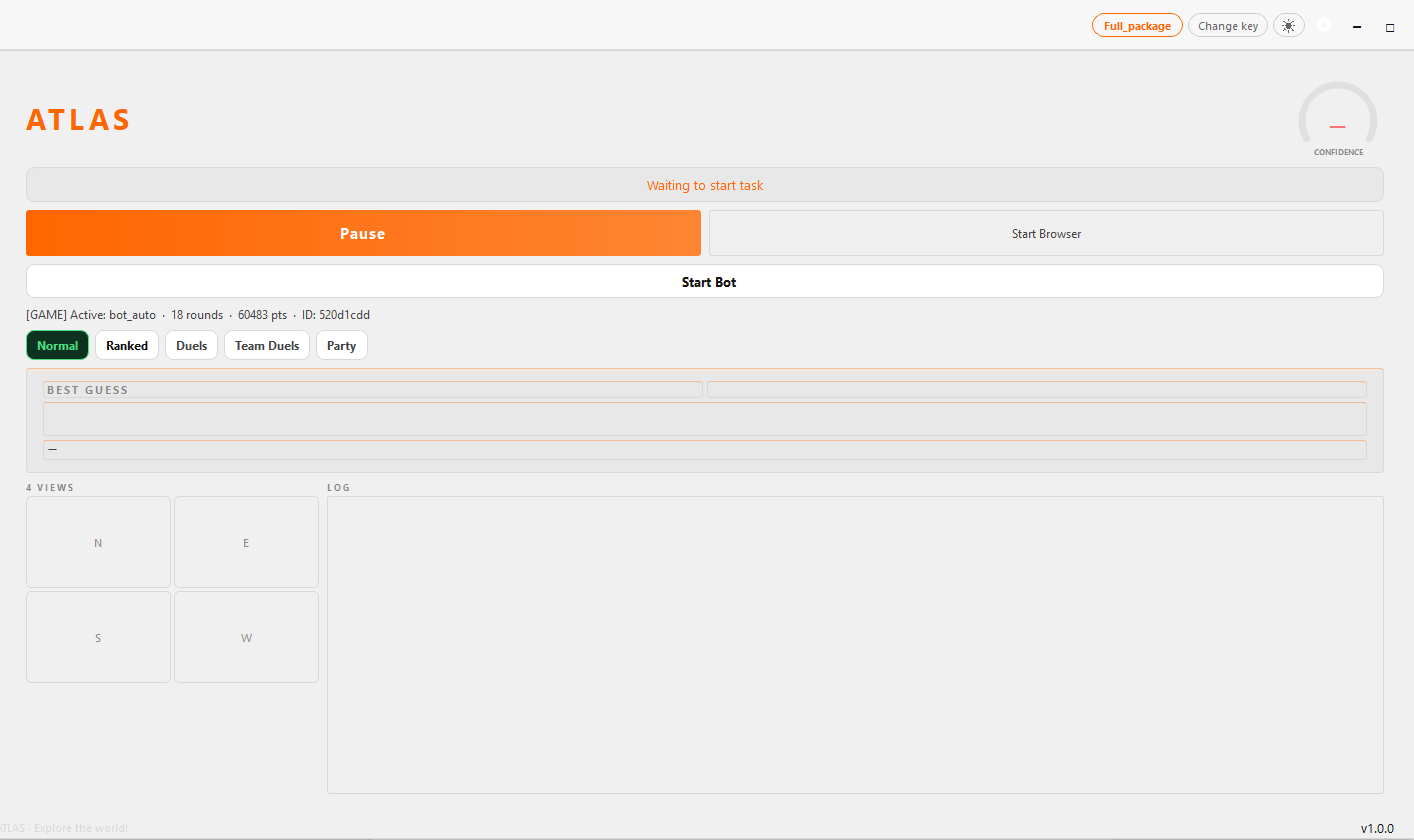
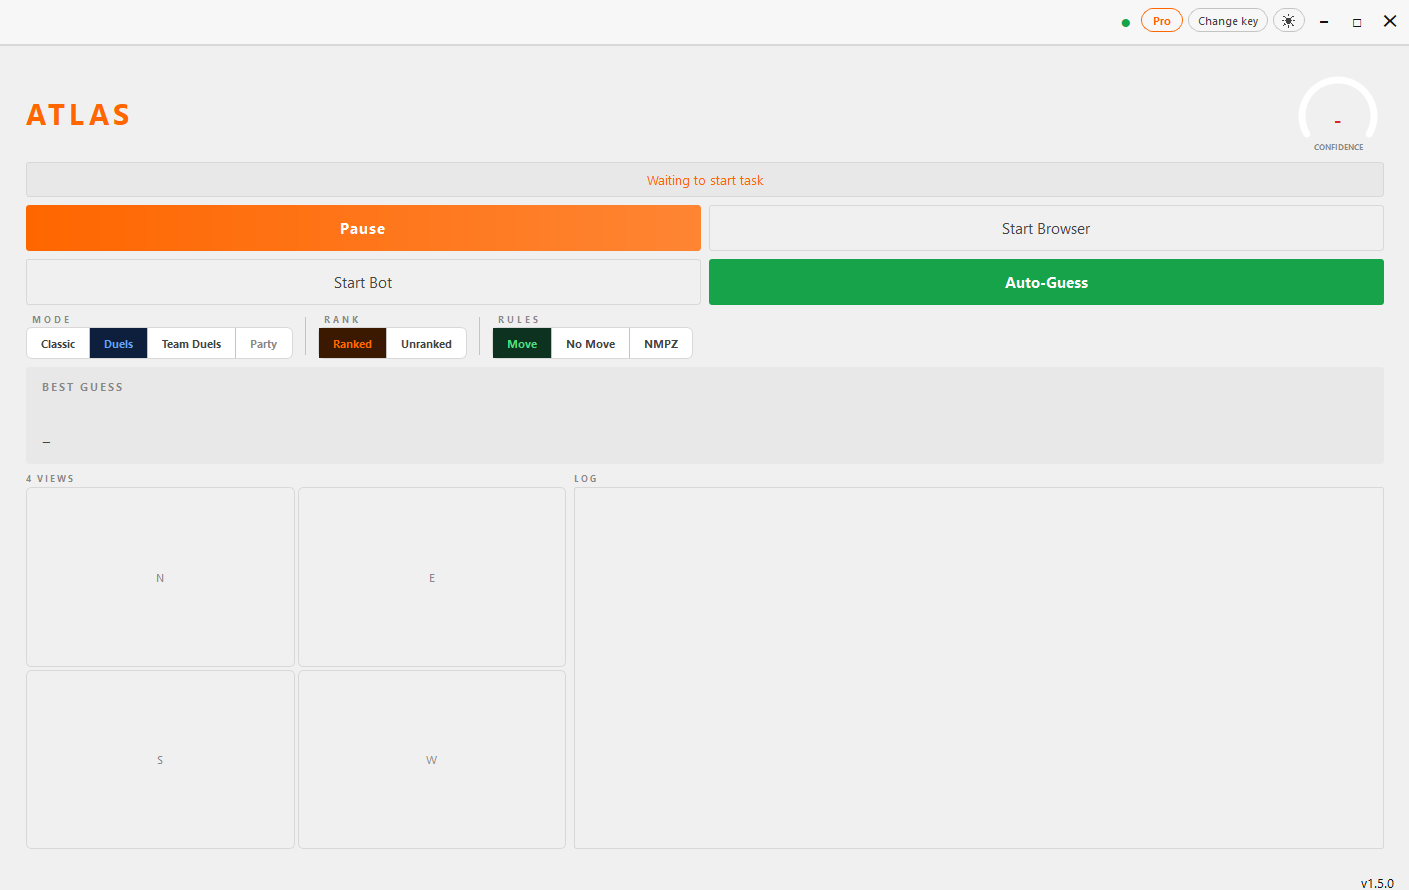
docs: SEO refresh of README for v1.5 (modes, NMPZ, Auto-Guess, real scores) + new screenshot

diff --git a/README.md b/README.md
@@ -1,46 +1,105 @@
-# ATLAS - AI GeoGuessr Cheat and Bot
+# ATLAS - AI GeoGuessr Cheat, Bot and Auto-Guess Tool
 
 <p align="center">
-  <img src="logo.png" alt="ATLAS" width="120" />
+  <img src="logo.png" alt="ATLAS GeoGuessr cheat logo" width="120" />
 </p>
 
-The most advanced AI-powered GeoGuessr tool available. ATLAS predicts any location in seconds with high accuracy across 108 countries.
+<p align="center">
+  <b>The #1 AI-powered GeoGuessr cheat and bot.</b><br/>
+  Predicts any location in under 3 seconds with high accuracy across 108 countries.<br/>
+  Full Auto-Guess bot for Duels, Team Duels, Move, No Move and NMPZ.
+</p>
 
-Get started at https://geoguessrcheats.com
+<p align="center">
+  <a href="https://geoguessrcheats.com"><b>Get started at geoguessrcheats.com</b></a> &middot;
+  <a href="https://discord.gg/pFzUkAjTHr">Join the Discord</a>
+</p>
 
-![ATLAS App](app-screenshot.png)
+![ATLAS GeoGuessr bot app interface with Duels, NMPZ and Auto-Guess](app-screenshot.png)
 
 
-## About
+## What is ATLAS?
 
-ATLAS is a standalone desktop application for Windows that helps you win at GeoGuessr. It uses artificial intelligence to predict locations with high accuracy. No browser extensions or scripts needed.
+ATLAS is a standalone Windows desktop app that helps you win at GeoGuessr. It reads the
+street-view image straight from your screen, analyzes visual clues like road signs,
+vegetation, road markings and architecture, and predicts the exact location in seconds.
+
+No browser extensions. No scripts injected into the game. Just a desktop app that watches
+your screen and tells you where you are. That makes it far harder to detect than typical
+GeoGuessr hacks and browser-based cheats.
 
 
 ## Features
 
-- AI prediction engine with support for 108 countries
-- Full bot mode for automated gameplay
-- Multiple game modes including Classic and Ranked
-- Fast predictions in under 3 seconds
-- Clean desktop app with dark and light theme
+- **AI prediction engine** trained on millions of street-view images, 108 countries
+- **Full Auto-Guess bot** that plays complete games hands-free
+- **Every game mode**: Classic, Duels, Team Duels and Party
+- **Ranked and Unranked** play supported
+- **Every ruleset**: Move, No Move and NMPZ
+- **Sub-3 second predictions**, GPU optional
+- **4 directional views** captured and analyzed per round
+- **Confidence score** with best-guess country and coordinates
+- **ELO tracker, weakness map and Discord notifications**
+- **Clean desktop app** with dark and light theme
+
+
+## Real scores
+
+ATLAS Auto-Guess running hands-free. These are real 5-round games, posted live to the
+Discord as they finish:
+
+| Session | Total score | Avg distance | Best rounds |
+|---|---|---|---|
+| Game 1 | 23,727 / 25,000 | 81.8 km | 4,990 / 4,940 / 4,915 |
+| Game 2 | 23,558 / 25,000 | 90.0 km | 4,948 / 4,884 / 4,700 |
+
+Recent sessions consistently score **23,000+ out of 25,000**, average **under 100 km per
+guess**, and land multiple **4,900+ point rounds** every game across Duels, Team Duels,
+Move, No Move and NMPZ.
+
+
+## FAQ
+
+**Does ATLAS work in NMPZ and No Move?**
+Yes. NMPZ (No Move, No Pan, No Zoom) and No Move are fully supported. Because ATLAS reads
+the image directly from your screen it never needs to move or pan the camera, so NMPZ is
+one of its strongest modes. Move rounds work too.
+
+**Which game modes does the bot support?**
+Classic, Duels, Team Duels and Party, in both Ranked and Unranked play, with one-click
+Auto-Guess on every round.
+
+**Will I get banned for using a GeoGuessr cheat?**
+ATLAS runs as a separate desktop application and does not modify the GeoGuessr website,
+inject code or use browser extensions. It works by analyzing your screen externally. Using
+any cheat tool is against GeoGuessr's terms of service, so use at your own discretion.
+
+**Do I need a powerful PC?**
+No. ATLAS works on any modern Windows PC. An NVIDIA GPU makes predictions faster but is
+optional. Minimum: Windows 10/11, 8 GB RAM, 2 GB disk space.
 
 
 ## Plans
 
-Basic plan starts at 9.99 per month. All plans include the AI prediction engine. Pro and Premium plans unlock the full bot mode for automatic gameplay. Cancel anytime.
+The Basic plan starts at 9.99 per month and includes the AI prediction engine. The Pro and
+Premium plans unlock the full Auto-Guess bot mode for automatic gameplay. Cancel anytime.
 
 View all plans at https://geoguessrcheats.com/#plans
 
 
 ## Community
 
-Join the Discord for updates, support, and to chat with other users.
+Join the Discord for updates, support and to chat with other players.
 
 https://discord.gg/pFzUkAjTHr
 
 
 ## Links
 
-Website: https://geoguessrcheats.com
+- **Website:** https://geoguessrcheats.com
+- **Plans:** https://geoguessrcheats.com/#plans
+- **Discord:** https://discord.gg/pFzUkAjTHr
 
-Discord: https://discord.gg/pFzUkAjTHr
+---
+
+<sub>geoguessr cheat &middot; geoguessr bot &middot; geoguessr hack &middot; geoguessr ai &middot; geoguessr auto guess bot &middot; geoguessr nmpz bot &middot; geoguessr no move cheat &middot; geoguessr duels bot &middot; geoguessr team duels bot &middot; geoguessr ranked bot &middot; geoguessr location predictor &middot; best geoguessr cheat 2026</sub>